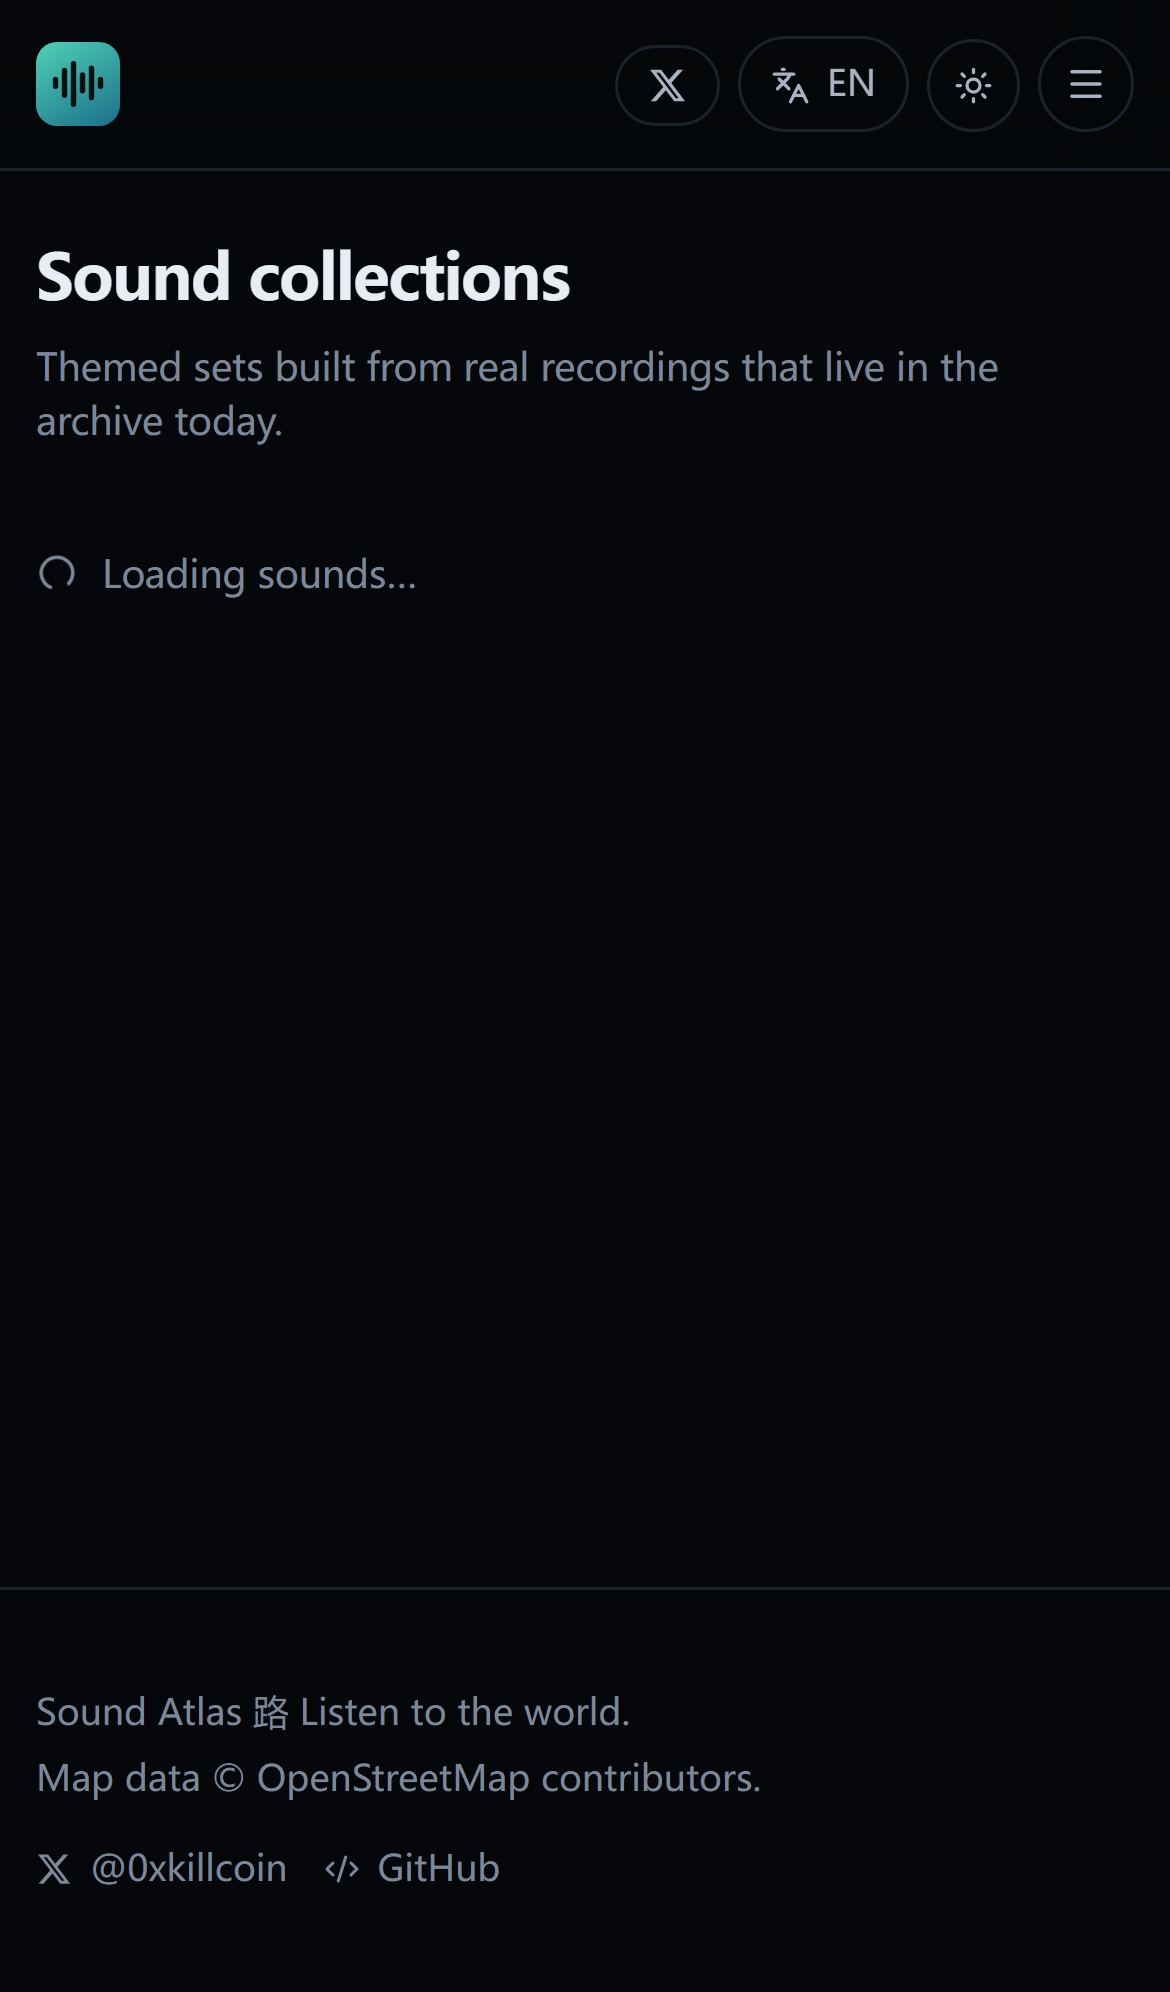
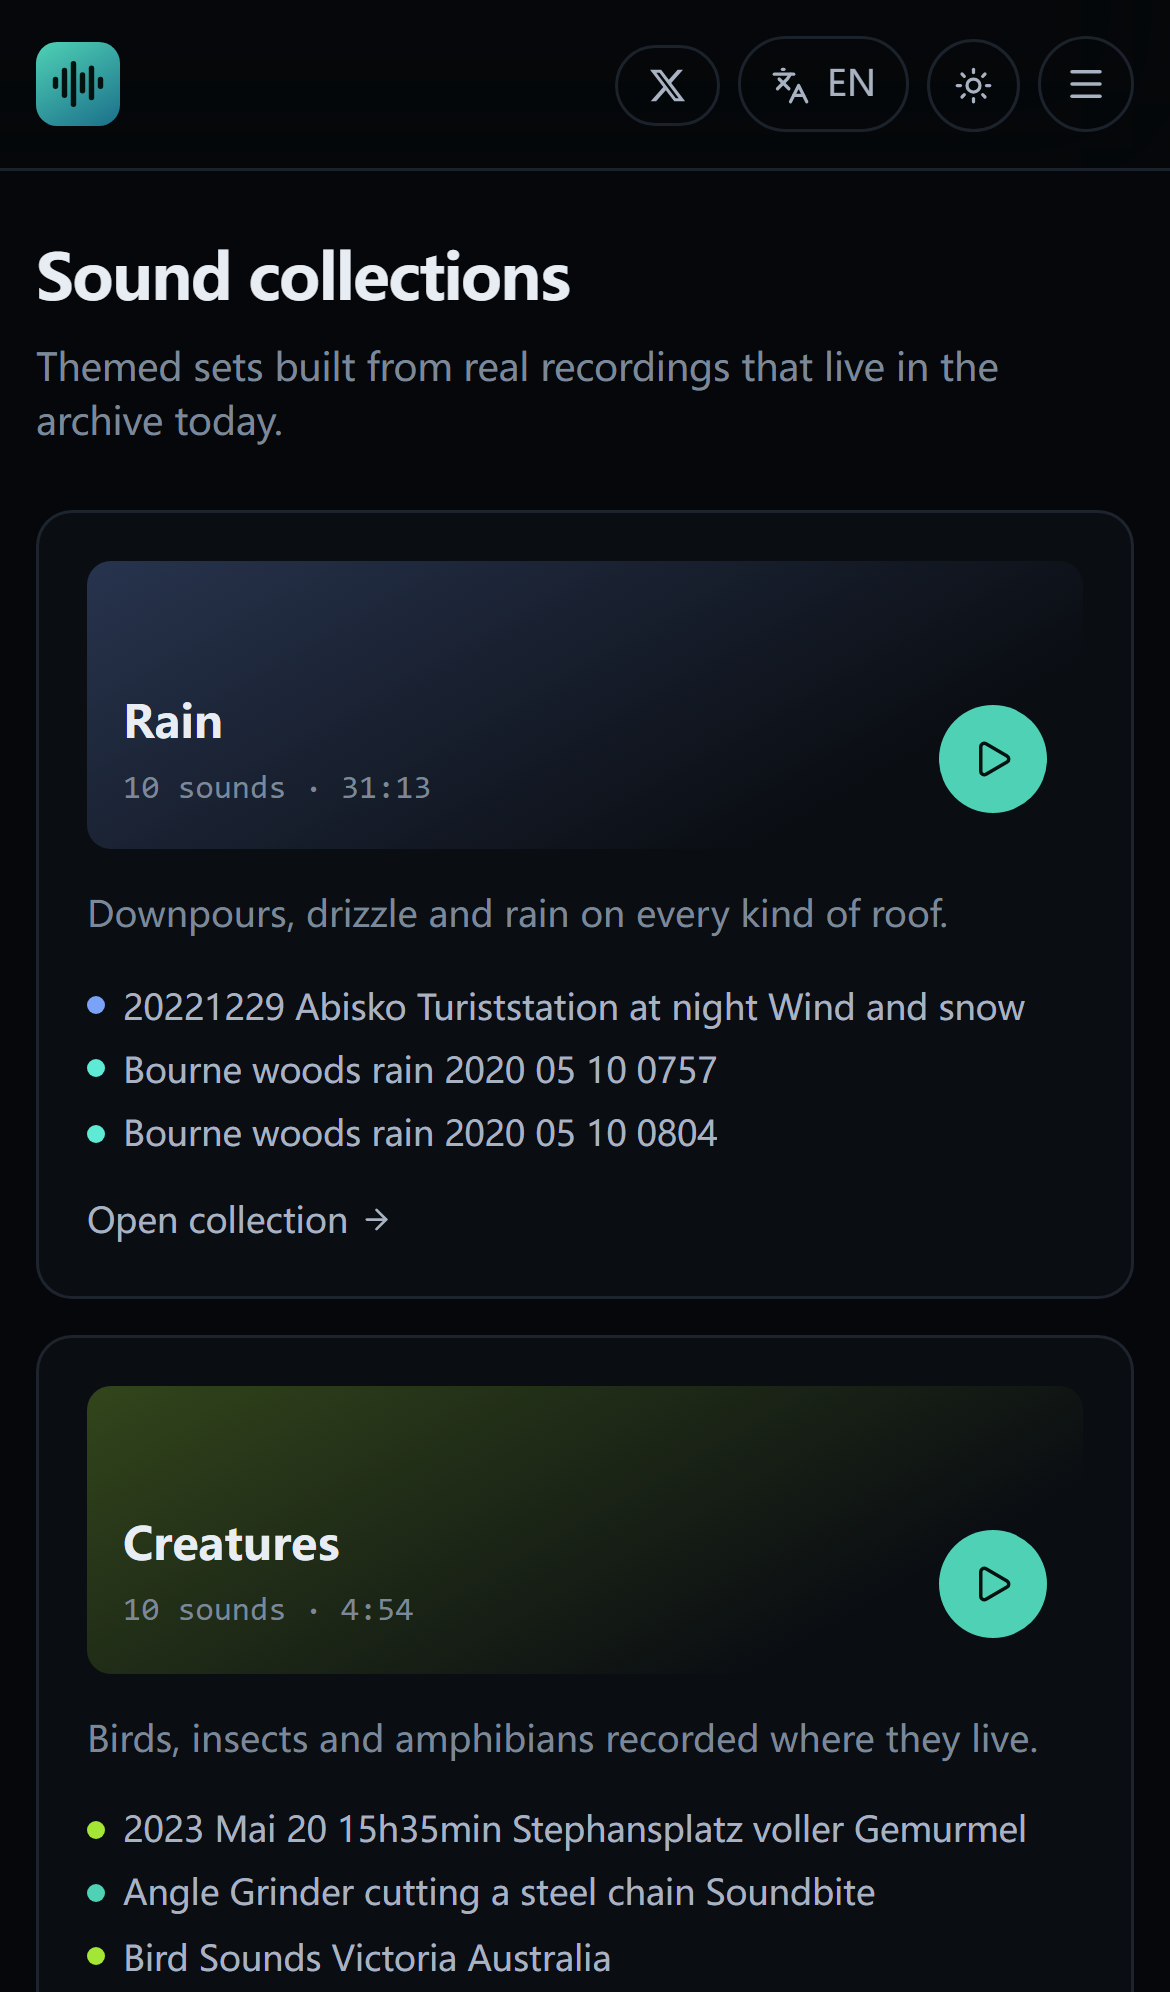
Fix mobile overflow on collections and detail pages
- Cards and list rows now shrink inside their grid tracks instead of forcing the
  page wider than the viewport at 390 px
- Restore 路线/路由 wording that an earlier punctuation repair had turned into
  middle dots, in both dictionaries and the README
- Widen the production audit to all eight routes

diff --git a/src/locales/index.ts b/src/locales/index.ts
@@ -318,7 +318,7 @@ const zh: Dict = {
   'nav.explore': '探索地图',
   'nav.collections': '声音专题',
   'nav.library': '我的收藏',
-  'nav.journeys': '声音·线',
+  'nav.journeys': '声音路线',
   'nav.upload': '上传录音',
   'nav.about': '关于',
   'nav.random': '随机声音',
@@ -362,7 +362,7 @@ const zh: Dict = {
   'home.how.2.title': '按下播放',
   'home.how.2.body': '直接播放原始档案中的音频文件，许可证与作者信息始终可见。',
   'home.how.3.title': '留下喜欢的',
-  'home.how.3.body': '把声音收藏进你自己的声音地图和·线。所有数据都保存在浏览器里。',
+  'home.how.3.body': '把声音收藏进你自己的声音地图和路线。所有数据都保存在浏览器里。',
   'home.sources.title': '声音来自哪里',
 
   'explore.title': '探索声音地图',
@@ -413,7 +413,7 @@ const zh: Dict = {
   'sound.saved': '已收藏',
   'sound.unsave': '从收藏中移除',
   'sound.addToMap': '加入声音地图',
-  'sound.addToJourney': '加入声音·线',
+  'sound.addToJourney': '加入声音路线',
   'sound.ambient': '沉浸模式',
   'sound.attribution': '署名信息',
   'sound.precisionExact': '录音坐标',
@@ -469,12 +469,12 @@ const zh: Dict = {
   'library.tab.recent': '最近播放',
   'library.tab.maps': '声音地图',
   'library.tab.clips': '我的录音',
-  'library.tab.journeys': '声音·线',
+  'library.tab.journeys': '声音路线',
   'library.empty.saved': '你还没有收藏任何声音。',
   'library.empty.recent': '还没有播放记录，从地图开始吧。',
   'library.empty.maps': '还没有声音地图。可以从收藏的声音开始创建。',
   'library.empty.clips': '还没有录音。可以在上传页录制或上传。',
-  'library.empty.journeys': '还没有声音·线。可以从任意两个地点开始搭建。',
+  'library.empty.journeys': '还没有声音路线。可以从任意两个地点开始搭建。',
   'library.clear': '清除',
   'library.clearRecent': '清除播放记录',
   'library.clearConfirm': '确定清除全部播放记录吗？',
@@ -483,7 +483,7 @@ const zh: Dict = {
   'library.rename': '重命名',
   'library.export': '导出数据',
   'library.import': '导入数据',
-  'library.exportHint': '下载一个 JSON 文件，包含收藏、声音地图、·线与录音的元数据。',
+  'library.exportHint': '下载一个 JSON 文件，包含收藏、声音地图、路线与录音的元数据。',
   'library.importHint': '导入之前导出的文件。未经确认不会覆盖现有数据。',
   'library.importDone': '已导入 {added} 项，跳过 {skipped} 项。',
   'library.importFailed': '该文件不是有效的 Sound Atlas 导出文件。',
@@ -501,16 +501,16 @@ const zh: Dict = {
   'maps.addedTo': '已加入「{name}」',
   'maps.pick': '加入哪一张地图？',
 
-  'journeys.title': '声音·线',
+  'journeys.title': '声音路线',
   'journeys.subtitle': '按顺序走过一个个真实地点，逐段聆听。',
-  'journeys.new': '新建·线',
-  'journeys.play': '开始·线',
+  'journeys.new': '新建路线',
+  'journeys.play': '开始路线',
   'journeys.stop': '停止',
   'journeys.stopAt': '本地点结束后停止',
   'journeys.next': '下一站',
   'journeys.position': '第 {n} 站 / 共 {total} 站',
   'journeys.total': '总时长',
-  'journeys.notNavigation': '·线只表示聆听顺序，不是交通导航。',
+  'journeys.notNavigation': '路线只表示聆听顺序，不是交通导航。',
   'journeys.moveUp': '前移',
   'journeys.moveDown': '后移',
 
@@ -573,7 +573,7 @@ const zh: Dict = {
   'about.source.localBody': '通过 IndexedDB 保存在浏览器中，不会上传到任何地方。',
   'about.privacy': '隐私',
   'about.privacyBody':
-    '没有账号系统，也没有统计脚本。收藏、·线与录音都保存在当前浏览器中。清除站点数据会一并删除，需要的话请先导出备份。',
+    '没有账号系统，也没有统计脚本。收藏、路线与录音都保存在当前浏览器中。清除站点数据会一并删除，需要的话请先导出备份。',
   'about.limits': '已知限制',
   'about.limits.1': '档案覆盖并不均匀：有的城市有几十段录音，有的一个都没有。',
   'about.limits.2': '按城市定位的点会明确标注，它并不是录音的精确位置。',

diff --git a/src/pages/CollectionsPage.tsx b/src/pages/CollectionsPage.tsx
@@ -37,7 +37,7 @@ export function CollectionsPage() {
           {t('explore.loading')}
         </div>
       ) : (
-        <div className="mt-5 grid gap-3 sm:grid-cols-2 lg:grid-cols-3">
+        <div className="mt-5 grid min-w-0 gap-3 sm:grid-cols-2 lg:grid-cols-3">
           {resolved.map(({ collection, sounds }) => {
             const totalSeconds = sounds.reduce((sum, sound) => sum + (sound.durationSec ?? 0), 0);
             const lead = sounds[0];
@@ -45,14 +45,14 @@ export function CollectionsPage() {
             return (
               <article
                 key={collection.id}
-                className="flex flex-col rounded-xl border p-4 transition-colors"
+                className="flex min-w-0 flex-col rounded-xl border p-4 transition-colors"
                 style={{ borderColor: 'var(--border)', background: 'var(--bg-raised)' }}
               >
                 <div
-                  className="mb-3 flex h-24 items-end justify-between rounded-lg p-3"
+                  className="mb-3 flex h-24 min-w-0 items-end justify-between gap-2 rounded-lg p-3"
                   style={{ background: `linear-gradient(150deg, color-mix(in srgb, ${color} 26%, transparent), transparent 78%)` }}
                 >
-                  <div>
+                  <div className="min-w-0">
                     <h2 className="text-[15px] font-semibold leading-tight">{t(collection.titleKey)}</h2>
                     <div className="mt-1 font-mono text-[11px]" style={{ color: 'var(--text-mute)' }}>
                       {t('collections.count', { n: sounds.length })}
@@ -77,11 +77,11 @@ export function CollectionsPage() {
                 </p>
 
                 {sounds.length ? (
-                  <ul className="mt-3 flex flex-col gap-1">
+                  <ul className="mt-3 flex min-w-0 flex-col gap-1">
                     {sounds.slice(0, 3).map((sound) => (
-                      <li key={sound.id} className="flex items-center gap-1.5 text-[11.5px]" style={{ color: 'var(--text-dim)' }}>
+                      <li key={sound.id} className="flex min-w-0 items-center gap-1.5 text-[11.5px]" style={{ color: 'var(--text-dim)' }}>
                         <CategoryDot category={sound.soundCategory} size={6} />
-                        <span className="truncate">{sound.title}</span>
+                        <span className="min-w-0 truncate">{sound.title}</span>
                       </li>
                     ))}
                   </ul>

diff --git a/src/components/SoundCard.tsx b/src/components/SoundCard.tsx
@@ -35,7 +35,7 @@ export function SoundCard({ sound, queue, compact = false }: SoundCardProps) {
 
   return (
     <article
-      className="group flex items-start gap-3 rounded-xl border p-3 transition-colors"
+      className="group flex min-w-0 items-start gap-3 rounded-xl border p-3 transition-colors"
       style={{
         borderColor: isCurrent ? 'color-mix(in srgb, var(--accent) 45%, var(--border))' : 'var(--border)',
         background: isCurrent ? 'color-mix(in srgb, var(--accent) 7%, var(--bg-raised))' : 'var(--bg-raised)',

diff --git a/src/pages/CollectionDetailPage.tsx b/src/pages/CollectionDetailPage.tsx
@@ -81,7 +81,7 @@ export function CollectionDetailPage() {
           {t('explore.loading')}
         </div>
       ) : sounds.length ? (
-        <div className="mt-5 grid gap-2 sm:grid-cols-2">
+        <div className="mt-5 grid min-w-0 gap-2 sm:grid-cols-2">
           {sounds.map((sound) => (
             <SoundCard key={sound.id} sound={sound} queue={sounds} />
           ))}

diff --git a/README.md b/README.md
@@ -78,9 +78,9 @@ All images are captured from the production build by `npm run shots` — not moc
 | Random sound | "Take me somewhere" — a seeded pick from sounds that play right now | 「带我去个地方」——从当前可播放的声音中随机抽取 |
 | Collections | Six themed sets resolved live from the providers, never a hard-coded list | 六个专题，实时查询生成，绝不硬编码清单 |
 | Personal sound maps | Group sounds into your own themed maps | 把声音组织成自己的主题地图 |
-| Sound journeys | An ordered listening route through real places, reorderable, skippable | 按地点顺序聆听的·线，可拖动排序、可跳过 |
+| Sound journeys | An ordered listening route through real places, reorderable, skippable | 按地点顺序聆听的路线，可拖动排序、可跳过 |
 | Upload / record | Upload a file or record from the microphone (MediaRecorder), stored locally | 上传文件或直接用麦克风录制，保存在本机 |
-| Library | Saved sounds, play history, maps, journeys, recordings, JSON export / import | 收藏、播放记录、地图、·线、录音、JSON 导出导入 |
+| Library | Saved sounds, play history, maps, journeys, recordings, JSON export / import | 收藏、播放记录、地图、路线、录音、JSON 导出导入 |
 | Sharing | Per-sound deep link, copyable, resolves after a hard reload | 每段声音的独立链接，刷新后仍可打开 |
 | Bilingual | Complete English and 简体中文, browser-detected, switchable | 完整中英双语，按浏览器语言自动选择，可切换 |
 | Themes | Dark and light, persisted | 深色与浅色主题，可记忆 |
@@ -309,7 +309,7 @@ check. Latest run against <https://iiiiiiiiiiiiikk.github.io/sound-atlas/>:
 | Playback requests a real archive file | `upload.wikimedia.org/…` |
 | Player reaches the `playing` state | pass |
 | No uncaught page errors | pass |
-| No horizontal overflow on `/`, `/explore`, `/collections`, `/library`, `/about` | 0 px each |
+| No horizontal overflow on `/`, `/explore`, `/collections`, `/journeys`, `/upload`, `/library`, `/about`, `/random` | 0 px each |
 | Mobile menu destinations | 6 links |
 
 ### 中文测试说明
@@ -317,13 +317,13 @@ check. Latest run against <https://iiiiiiiiiiiiikk.github.io/sound-atlas/>:
 单元测试 42 个全部通过，覆盖格式化、双语词典、本地存储（含导入不覆盖、坏文件被拒绝）、
 数据源筛选与去重、音频引擎空状态安全、专题解析。端到端测试共 44 个用例（41 通过、
 3 个仅在移动端项目运行的用例在桌面项目中跳过），在**生产构建**上运行，桌面与 iPhone 14
-两个项目，验证·由、深链刷新、语言与主题持久化、地图打点、地点搜索、筛选、播放
-（真实请求到档案站）、收藏持久化、导出下载、错误导入提示、·线创建、上传与版权确认、
-移动端菜单，以及全部八条·由在 390px 宽度下无横向溢出。
+两个项目，验证路由、深链刷新、语言与主题持久化、地图打点、地点搜索、筛选、播放
+（真实请求到档案站）、收藏持久化、导出下载、错误导入提示、路线创建、上传与版权确认、
+移动端菜单，以及全部八条路由在 390px 宽度下无横向溢出。
 
 上线后另做生产环境自动化验收：首页 200 与标题、作者 X 链接、54 条录音统计、
 31 个地图聚合点、15 张底图瓦片、`Showing 62 of 150`、真实播放请求与 `playing` 状态、
-控制台无未捕获错误、移动端五条·由 0px 溢出、移动端菜单 6 个入口，16/16 全部通过。
+控制台无未捕获错误、移动端八条路由 0px 溢出、移动端菜单 6 个入口，全部通过。
 
 ---
 
